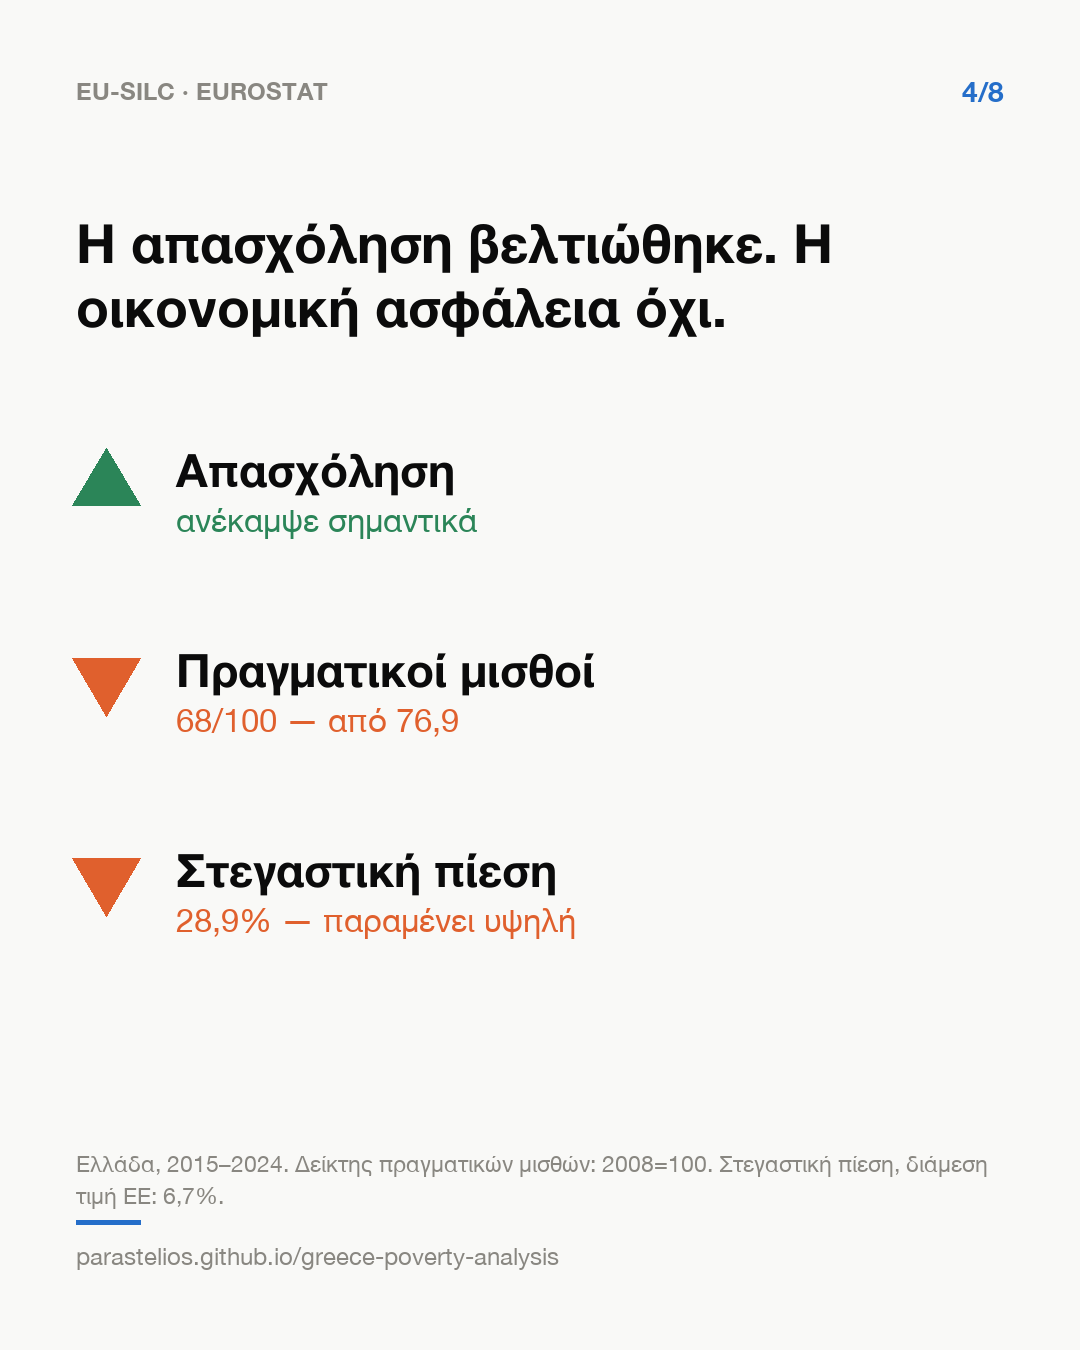
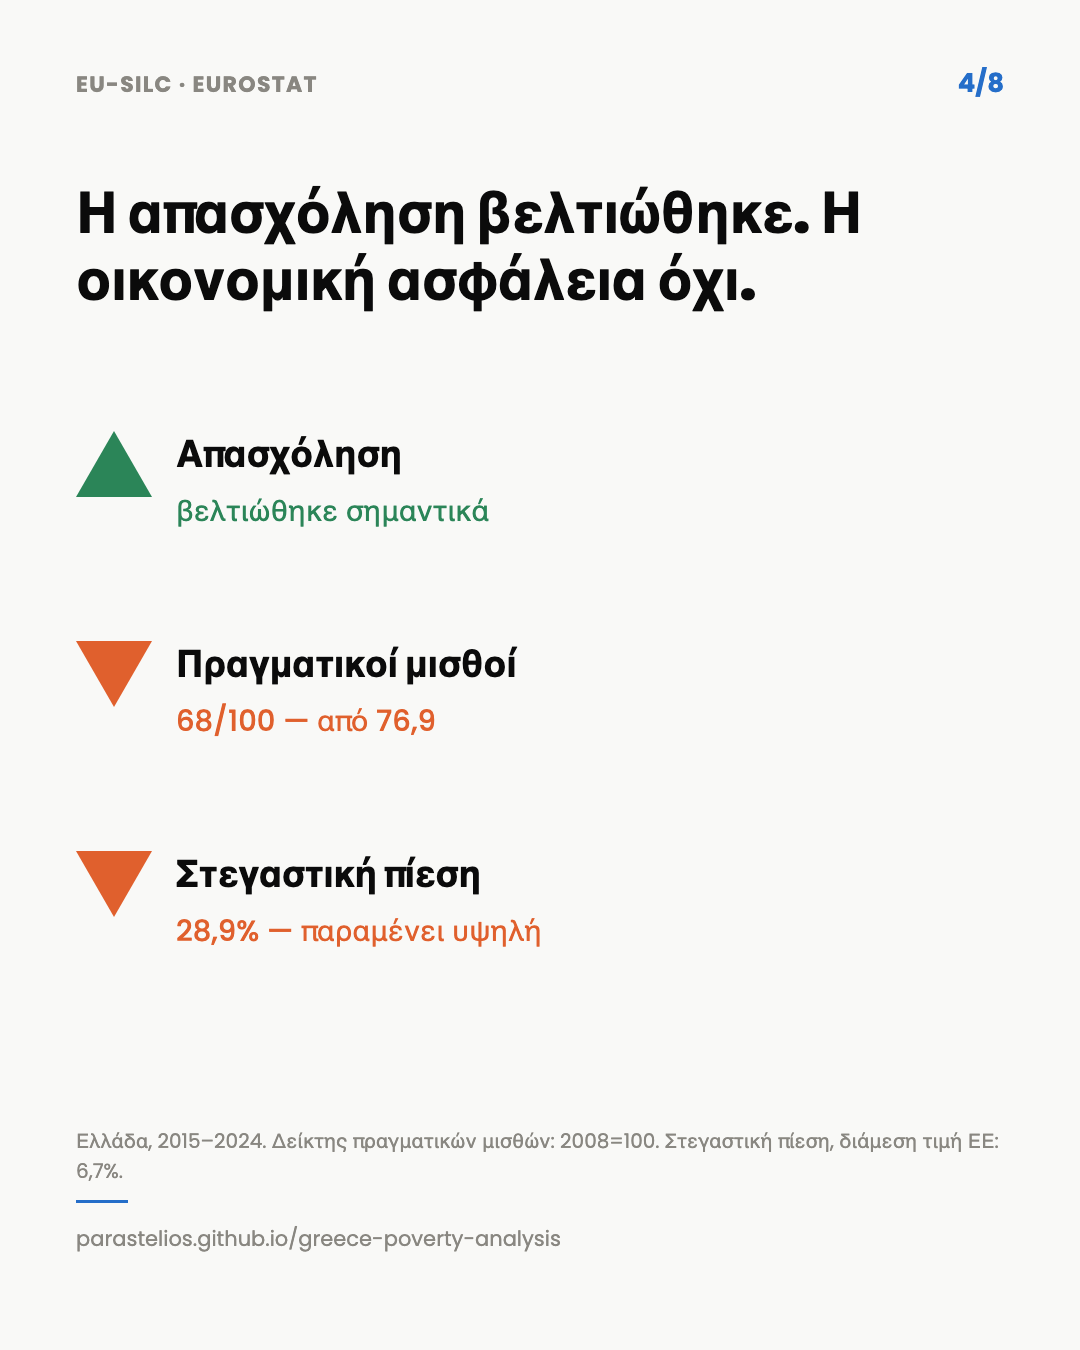
Fix "52.6 undefined", recovered/improved inconsistency, and Go Deeper labelling
From a second read-through against the friend's original feedback:

- "Average gap 52.6" appeared with no immediate definition -- a reader
  computing 66.7-19.6 gets 47.1, not 52.6, since one is the 2024
  snapshot and the other a 2015-2024 average. Added a one-line note
  directly under the stat cards spelling out the distinction and
  giving the 2024-only figure (47.1) for comparison, in both languages.
- The hero/dek and narrative standfirst said the labour market
  "recovered", while the cards and the piece's own established
  convention (some indicators improved; society did not recover)
  say "improved". Fixed both to match: labour market improved,
  households did not recover -- preserves the contrast, fixes the
  word.
- Carousel card 4 had the same slip baked into the image itself: its
  title said "improved" but the Employment bullet underneath said
  "recovered substantially", and the alt text repeated the stale
  word. Rebuilt both language versions of the card from scratch
  (Playwright, sampled colors, Poppins) and fixed the alt text to
  match.
- Greek "Go deeper" section now reads "Περισσότερα (στα αγγλικά)" so
  a reader knows before clicking that the report and appendix are
  English-only, rather than discovering it only on the cards below.

diff --git a/site/el.html b/site/el.html
@@ -40,6 +40,7 @@ body{margin:0;background:var(--page);color:var(--text-primary);
 h1{font-size:44px;line-height:1.15;letter-spacing:-0.02em;margin:0 0 18px;text-wrap:balance}
 .dek{font-size:17.5px;line-height:1.6;color:var(--text-secondary);max-width:64ch;margin:0 0 8px}
 .stat-row{display:grid;grid-template-columns:repeat(3,minmax(0,1fr));gap:14px;margin:34px 0 8px}
+.stat-note{font-size:12.5px;color:var(--text-muted);margin:0 0 8px;max-width:64ch}
 .tile{background:var(--surface-1);border:1px solid var(--border);border-radius:10px;padding:16px 18px}
 .tile .l{font-size:11.5px;color:var(--text-muted);margin:0 0 6px}
 .tile .v{font-size:26px;font-weight:700;letter-spacing:-0.02em;margin:0;font-variant-numeric:tabular-nums}
@@ -143,13 +144,14 @@ footer a{color:var(--text-secondary)}
     <p class="lang-switch"><a href="index.html">EN</a><span class="cur">ΕΛ</span></p>
   </div>
   <h1>Το ελληνικό παράδοξο της φτώχειας</h1>
-  <p class="dek">Η αγορά εργασίας της Ελλάδας ανέκαμψε. Τα νοικοκυριά της όχι. Δύο στα τρία δηλώνουν ότι δυσκολεύονται να τα βγάλουν πέρα &mdash; το υψηλότερο ποσοστό στην ΕΕ &mdash; ενώ ο επίσημος δείκτης φτώχειας φαίνεται πολύ λιγότερο ακραίος. Η ανάλυση εξετάζει γιατί.</p>
+  <p class="dek">Η αγορά εργασίας της Ελλάδας βελτιώθηκε. Τα νοικοκυριά της δεν ανέκαμψαν. Δύο στα τρία δηλώνουν ότι δυσκολεύονται να τα βγάλουν πέρα &mdash; το υψηλότερο ποσοστό στην ΕΕ &mdash; ενώ ο επίσημος δείκτης φτώχειας φαίνεται πολύ λιγότερο ακραίος. Η ανάλυση εξετάζει γιατί.</p>
 
   <div class="stat-row">
     <div class="tile"><p class="l">Δηλωμένη οικονομική δυσκολία, 2024</p><p class="v gr">66,7% <span class="unit">των νοικοκυριών</span></p><p class="s">έναντι 17,1% στη διάμεση χώρα της ΕΕ · 1η θέση</p></div>
     <div class="tile"><p class="l">Εισοδηματική φτώχεια (AROP), 2024</p><p class="v">19,6% <span class="unit">των ανθρώπων</span></p><p class="s">έναντι 15,5% στη διάμεση χώρα της ΕΕ · 7η θέση</p></div>
     <div class="tile"><p class="l">Μέσο χάσμα, 2015–2024</p><p class="v">52,6 <span class="unit">π.μ.</span></p><p class="s">ποσοστιαίες μονάδες · σε μεγάλο βαθμό ανεξήγητο</p></div>
   </div>
+  <p class="stat-note">Το τρίτο νούμερο είναι ο μέσος όρος 2015&ndash;2024 του χάσματος ανάμεσα στις δύο πρώτες μετρήσεις, όχι μόνο η φετινή διαφορά (47,1 μονάδες το 2024).</p>
 
   <div class="research-q">
     <p class="rq-title">Το ερώτημα πίσω από τους αριθμούς</p>
@@ -179,7 +181,7 @@ footer a{color:var(--text-secondary)}
         <li class="carousel-slide"><img src="assets/carousel/el-1.png" width="1080" height="1350" loading="lazy" alt="Η ανάκαμψη θεωρείται δεδομένη. Τα νοικοκυριά διαφωνούν. 66,7% των νοικοκυριών δηλώνουν οικονομική δυσκολία, η υψηλότερη τιμή στην ΕΕ, ενώ η εισοδηματική φτώχεια (AROP) είναι 19,6%, στην 7η θέση από τις 27 χώρες."></li>
         <li class="carousel-slide"><img src="assets/carousel/el-2.png" width="1080" height="1350" loading="lazy" alt="Δεν είναι απλώς απαισιοδοξία. Τρεις δείκτες υλικής δυσκολίας — απρόοπτα έξοδα, θέρμανση, βασικές ανάγκες — κινούνται μαζί με τη δηλωμένη δυσκολία, με συσχετίσεις από 0,87 έως 0,94, 2015–2024."></li>
         <li class="carousel-slide"><img src="assets/carousel/el-3.png" width="1080" height="1350" loading="lazy" alt="Ο πήχης έπεσε μαζί με τη χώρα. Το 2014 η επίσημη φτώχεια ήταν 22,1%, όμως με σταθερό το όριο του 2008 θα είχε φτάσει το 40,6% την ίδια χρονιά."></li>
-        <li class="carousel-slide"><img src="assets/carousel/el-4.png" width="1080" height="1350" loading="lazy" alt="Η απασχόληση βελτιώθηκε. Η οικονομική ασφάλεια όχι. Από το 2015 ως το 2024, η απασχόληση ανέκαμψε σημαντικά, οι πραγματικοί μισθοί έπεσαν στο 68 από το 100, και η στεγαστική πίεση παραμένει στο 28,9%, πολύ πάνω από τη διάμεση τιμή της ΕΕ."></li>
+        <li class="carousel-slide"><img src="assets/carousel/el-4.png" width="1080" height="1350" loading="lazy" alt="Η απασχόληση βελτιώθηκε. Η οικονομική ασφάλεια όχι. Από το 2015 ως το 2024, η απασχόληση βελτιώθηκε σημαντικά, οι πραγματικοί μισθοί έπεσαν στο 68 από το 100, και η στεγαστική πίεση παραμένει στο 28,9%, πολύ πάνω από τη διάμεση τιμή της ΕΕ."></li>
         <li class="carousel-slide"><img src="assets/carousel/el-5.png" width="1080" height="1350" loading="lazy" alt="Η κρίση δεν τελείωσε όταν έπεσε η ανεργία. Η Ελλάδα είναι 1η από τις 27 χώρες της ΕΕ στη συσσωρευμένη ανεργία, 2η στα χρόνια μισθών κάτω από το 2008, και 1η στην επιδείνωση του κόστους στέγασης, 2009–2024."></li>
         <li class="carousel-slide"><img src="assets/carousel/el-6.png" width="1080" height="1350" loading="lazy" alt="Το μοντέλο δεν λύνει τα πάντα. Η θέση της Ελλάδας στο ανεξήγητο υπόλοιπο μετακινείται από την 3η στην 25η θέση μεταξύ 27 χωρών, ανάλογα με μία εύλογη αλλαγή στο μοντέλο."></li>
         <li class="carousel-slide"><img src="assets/carousel/el-7.png" width="1080" height="1350" loading="lazy" alt="Το ανεξήγητο υπόλοιπο δεν αποδεικνύει «απαισιοδοξία». Φορολογία, πλούτος, εμπιστοσύνη, υγεία και μετανάστευση παραμένουν πιθανοί παράγοντες, όχι αποδεδειγμένες αιτίες."></li>
@@ -196,7 +198,7 @@ footer a{color:var(--text-secondary)}
 
   <p class="note"><b>Τι δείχνει η ανάλυση.</b> Η οικονομική δυσκολία που δηλώνουν τα νοικοκυριά δεν μπορεί να απορριφθεί ως απλή απαισιοδοξία. Συμβαδίζει με συγκεκριμένες υλικές στερήσεις και με ένα ευρύτερο μοτίβο πίεσης στους μισθούς, στην αγοραστική δύναμη, στην απασχόληση και στη στέγαση.<br><br>Κανένας παράγοντας, όμως, δεν εξηγεί μόνος του το μέσο χάσμα των 52,6 ποσοστιαίων μονάδων. Τα αποτελέσματα δείχνουν σχέσεις μεταξύ χωρών, όχι τι προκαλεί τη δυσκολία μέσα σε κάθε νοικοκυριό.</p>
 
-  <h2>Για περισσότερα</h2>
+  <h2>Περισσότερα (στα αγγλικά)</h2>
   <div class="cards cards-secondary">
     <a class="card" href="report.html">
       <h3>Η τεχνική αναφορά →</h3>

diff --git a/site/index.html b/site/index.html
@@ -40,6 +40,7 @@ body{margin:0;background:var(--page);color:var(--text-primary);
 h1{font-size:46px;line-height:1.1;letter-spacing:-0.02em;margin:0 0 18px;text-wrap:balance}
 .dek{font-size:17.5px;line-height:1.6;color:var(--text-secondary);max-width:64ch;margin:0 0 8px}
 .stat-row{display:grid;grid-template-columns:repeat(3,minmax(0,1fr));gap:14px;margin:34px 0 8px}
+.stat-note{font-size:12.5px;color:var(--text-muted);margin:0 0 8px;max-width:64ch}
 .tile{background:var(--surface-1);border:1px solid var(--border);border-radius:10px;padding:16px 18px}
 .tile .l{font-size:11.5px;color:var(--text-muted);margin:0 0 6px}
 .tile .v{font-size:26px;font-weight:700;letter-spacing:-0.02em;margin:0;font-variant-numeric:tabular-nums}
@@ -143,13 +144,14 @@ footer a{color:var(--text-secondary)}
     <p class="lang-switch"><span class="cur">EN</span><a href="el.html">ΕΛ</a></p>
   </div>
   <h1>The Greek Poverty Paradox</h1>
-  <p class="dek">Greece's labour market recovered. Its households did not. Two in three say they're struggling to make ends meet &mdash; the EU's highest share &mdash; while the official poverty rate looks far less exceptional. This project asks why.</p>
+  <p class="dek">Greece's labour market improved. Its households did not recover. Two in three say they're struggling to make ends meet &mdash; the EU's highest share &mdash; while the official poverty rate looks far less exceptional. This project asks why.</p>
 
   <div class="stat-row">
     <div class="tile"><p class="l">Reported hardship, 2024</p><p class="v gr">66.7% <span class="unit">of households</span></p><p class="s">EU-country median: 17.1% · highest of 27</p></div>
     <div class="tile"><p class="l">Income poverty (AROP), 2024</p><p class="v">19.6% <span class="unit">of people</span></p><p class="s">EU-country median: 15.5% · 7th highest of 27</p></div>
     <div class="tile"><p class="l">Average gap, 2015–2024</p><p class="v">52.6 <span class="unit">pp</span></p><p class="s">largely unexplained</p></div>
   </div>
+  <p class="stat-note">The third figure is the 2015&ndash;2024 average of the gap between the first two measures, not this year's difference alone (47.1 points in 2024).</p>
 
   <div class="research-q">
     <p class="rq-title">The question behind the numbers</p>
@@ -179,7 +181,7 @@ footer a{color:var(--text-secondary)}
         <li class="carousel-slide"><img src="assets/carousel/en-1.png" width="1080" height="1350" loading="lazy" alt="Recovery is taken as a given. Households disagree. 66.7% of households report economic hardship, the highest share in the EU, while income poverty (AROP) is 19.6%, 7th highest of 27 countries."></li>
         <li class="carousel-slide"><img src="assets/carousel/en-2.png" width="1080" height="1350" loading="lazy" alt="This is not just pessimism. Three material-hardship indicators — unexpected expense, heating, basic needs — move together with reported hardship, correlations from 0.87 to 0.94, 2015–2024."></li>
         <li class="carousel-slide"><img src="assets/carousel/en-3.png" width="1080" height="1350" loading="lazy" alt="The bar fell with the country. In 2014, official poverty was 22.1%, but with the 2008 line held fixed it would have reached 40.6% that same year."></li>
-        <li class="carousel-slide"><img src="assets/carousel/en-4.png" width="1080" height="1350" loading="lazy" alt="Employment improved. Economic security did not. From 2015 to 2024, employment recovered substantially, real wages fell to 68 out of 100, and housing pressure remains at 28.9%, far above the EU-country median."></li>
+        <li class="carousel-slide"><img src="assets/carousel/en-4.png" width="1080" height="1350" loading="lazy" alt="Employment improved. Economic security did not. From 2015 to 2024, employment improved substantially, real wages fell to 68 out of 100, and housing pressure remains at 28.9%, far above the EU-country median."></li>
         <li class="carousel-slide"><img src="assets/carousel/en-5.png" width="1080" height="1350" loading="lazy" alt="The crisis didn't end when unemployment fell. Greece ranks 1st of 27 EU countries on accumulated unemployment, 2nd on years of wages below 2008, and 1st on housing-cost deterioration, 2009–2024."></li>
         <li class="carousel-slide"><img src="assets/carousel/en-6.png" width="1080" height="1350" loading="lazy" alt="The model doesn't settle everything. Greece's rank on the unexplained remainder moves from 3rd to 25th of 27 countries, depending on one reasonable modelling choice."></li>
         <li class="carousel-slide"><img src="assets/carousel/en-7.png" width="1080" height="1350" loading="lazy" alt="The unexplained remainder is not evidence of “pessimism.” Taxation, wealth, trust, health and migration remain possible factors, not proven causes."></li>

diff --git a/output/narrative_el.html b/output/narrative_el.html
@@ -521,7 +521,7 @@ details.disclosure .ctx:last-child{margin-bottom:1.2rem}
 <header class="masthead">
 <p class="rubric">Το ελληνικό παράδοξο της φτώχειας</p>
 <h1>Αν η Ελλάδα ανέκαμψε, γιατί τόσα νοικοκυριά εξακολουθούν να δυσκολεύονται;</h1>
-<p class="standfirst">Η αγορά εργασίας της Ελλάδας ανέκαμψε. Τα νοικοκυριά της όχι.
+<p class="standfirst">Η αγορά εργασίας της Ελλάδας βελτιώθηκε. Τα νοικοκυριά της δεν ανέκαμψαν.
 Η απόσταση ανάμεσα στην εισοδηματική φτώχεια και τη δηλωμένη
 δυσκολία δείχνει τι αφήνουν έξω οι τίτλοι της ανάκαμψης: ένα μετακινούμενο
 όριο φτώχειας, τραυματισμένους μισθούς, πίεση στην αγοραστική δύναμη και τη

diff --git a/output/narrative.html b/output/narrative.html
@@ -567,8 +567,8 @@ details.disclosure .ctx:last-child{margin-bottom:1.2rem}
 <header class="masthead">
 <p class="rubric">The Greek Poverty Paradox</p>
 <h1>If Greece Has Recovered, Why Do So Many Households Still Struggle?</h1>
-<p class="standfirst">Greece&rsquo;s labour market recovered. Its households did
-not. The distance between income poverty and reported hardship shows
+<p class="standfirst">Greece&rsquo;s labour market improved. Its households did
+not recover. The distance between income poverty and reported hardship shows
 what the recovery headlines leave out: a moving poverty line, damaged wages,
 pressure on purchasing power and the long shadow of the crisis.</p>
 <div class="stat-pair">

diff --git a/scripts/92_build_narrative_el.py b/scripts/92_build_narrative_el.py
@@ -2105,7 +2105,7 @@ PAGE = f"""<!doctype html><html lang="el"><head><meta charset="utf-8">
 <header class="masthead">
 <p class="rubric">Το ελληνικό παράδοξο της φτώχειας</p>
 <h1>{_TITLE_EL}</h1>
-<p class="standfirst">Η αγορά εργασίας της Ελλάδας ανέκαμψε. Τα νοικοκυριά της όχι.
+<p class="standfirst">Η αγορά εργασίας της Ελλάδας βελτιώθηκε. Τα νοικοκυριά της δεν ανέκαμψαν.
 Η απόσταση ανάμεσα στην εισοδηματική φτώχεια και τη δηλωμένη
 δυσκολία δείχνει τι αφήνουν έξω οι τίτλοι της ανάκαμψης: ένα μετακινούμενο
 όριο φτώχειας, τραυματισμένους μισθούς, πίεση στην αγοραστική δύναμη και τη

diff --git a/scripts/91_build_narrative.py b/scripts/91_build_narrative.py
@@ -1601,8 +1601,8 @@ PAGE = f"""<!doctype html><html lang="en"><head><meta charset="utf-8">
 <header class="masthead">
 <p class="rubric">The Greek Poverty Paradox</p>
 <h1>If Greece Has Recovered, Why Do So Many Households Still Struggle?</h1>
-<p class="standfirst">Greece&rsquo;s labour market recovered. Its households did
-not. The distance between income poverty and reported hardship shows
+<p class="standfirst">Greece&rsquo;s labour market improved. Its households did
+not recover. The distance between income poverty and reported hardship shows
 what the recovery headlines leave out: a moving poverty line, damaged wages,
 pressure on purchasing power and the long shadow of the crisis.</p>
 <div class="stat-pair">
